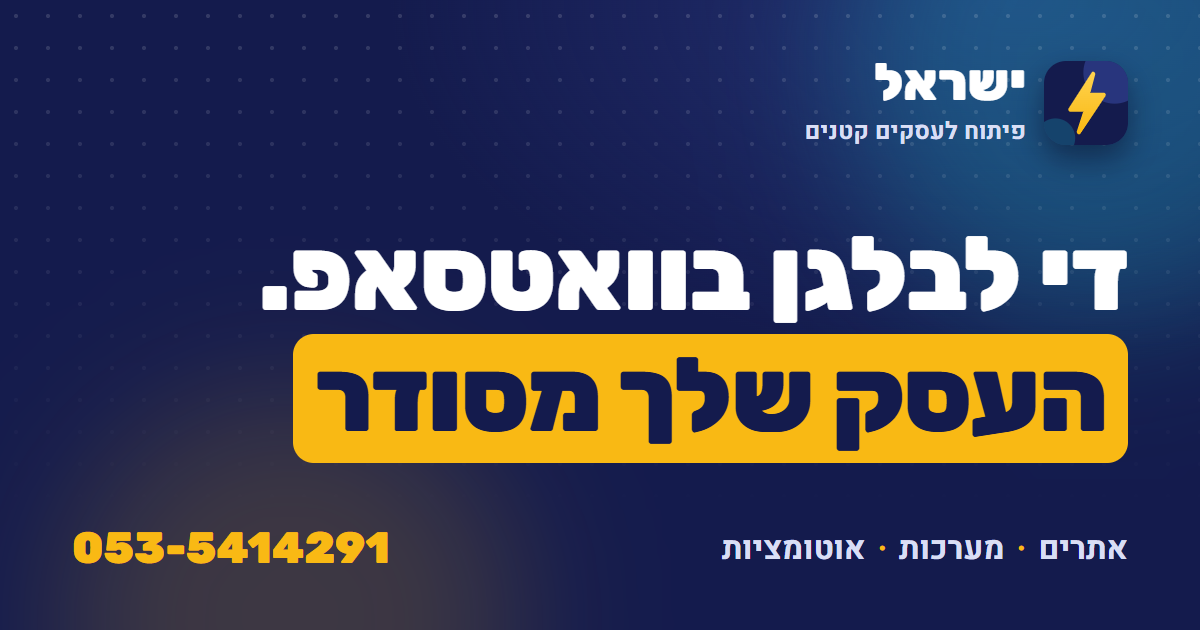
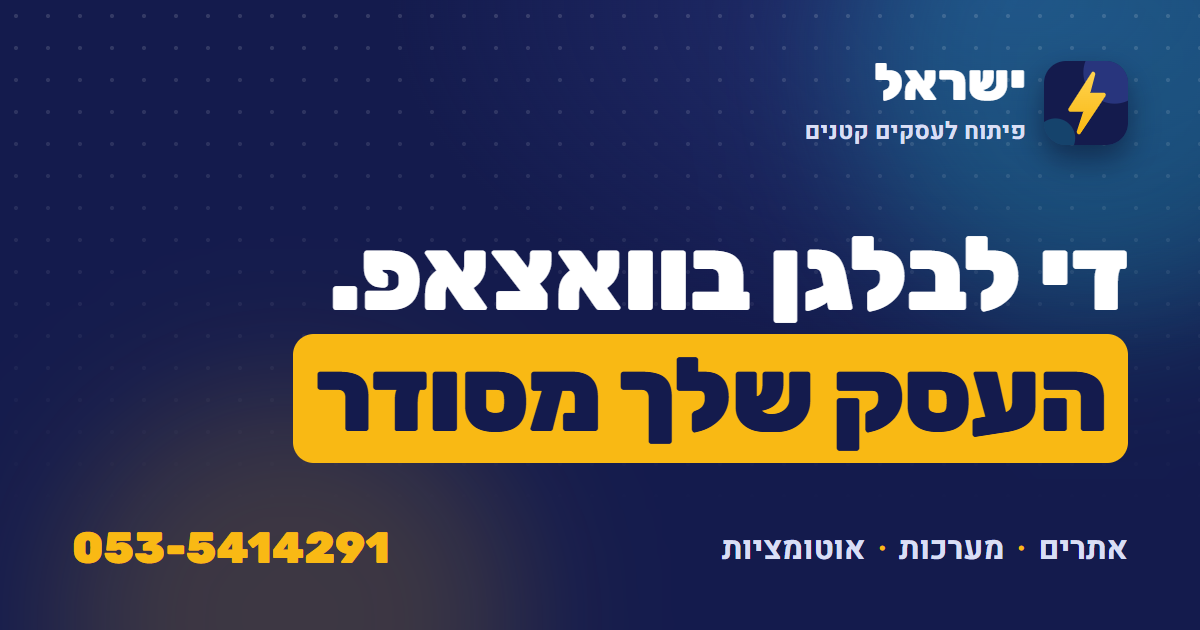
כתיבה אחידה של וואצאפ באתר ובתמונת השיתוף

Changed region(s): [[0.2158, 0.3921, 0.4625, 0.5127]]

diff --git a/index.html b/index.html
@@ -5,8 +5,8 @@
   <meta name="viewport" content="width=device-width, initial-scale=1">
   <title data-edit="seo.title" data-label="כותרת הדף בגוגל ובלשונית">ישראל – אתרים, מערכות ואוטומציות לעסקים קטנים</title>
   <meta name="description" data-edit-meta="seo.description" data-label="תיאור הדף בגוגל" data-type="long" content="בונה לעסקים קטנים אתרים ודפי נחיתה, מערכות לניהול לקוחות ואוטומציות. בעברית פשוטה ובלי מילים טכניות.">
-  <meta name="lazy:whatsapp" data-edit-meta="contact.whatsapp" data-label="מספר וואטסאפ" content="053-5414291">
-  <meta name="lazy:wa-message" data-edit-meta="contact.wa_message" data-label="ההודעה המוכנה בוואטסאפ" data-type="long" content="היי ישראל, אשמח לשמוע איך אפשר לסדר את העסק שלי">
+  <meta name="lazy:whatsapp" data-edit-meta="contact.whatsapp" data-label="מספר וואצאפ" content="053-5414291">
+  <meta name="lazy:wa-message" data-edit-meta="contact.wa_message" data-label="ההודעה המוכנה בוואצאפ" data-type="long" content="היי ישראל, אשמח לשמוע איך אפשר לסדר את העסק שלי">
   <link rel="canonical" href="https://68kaminsky-maker.github.io/israel-site/">
   <meta property="og:title" content="ישראל – אתרים, מערכות ואוטומציות לעסקים קטנים">
   <meta property="og:description" content="אתרים ודפי נחיתה, מערכות לניהול לקוחות ואוטומציות, בעברית פשוטה.">
@@ -18,7 +18,7 @@
   <meta property="og:image:type" content="image/png">
   <meta property="og:image:width" content="1200">
   <meta property="og:image:height" content="630">
-  <meta property="og:image:alt" content="ישראל: די לבלגן בוואטסאפ, העסק שלך מסודר. אתרים, מערכות ואוטומציות">
+  <meta property="og:image:alt" content="ישראל: די לבלגן בוואצאפ, העסק שלך מסודר. אתרים, מערכות ואוטומציות">
   <meta name="twitter:card" content="summary_large_image">
   <link rel="icon" href="assets/favicon.svg" type="image/svg+xml">
   <link rel="preconnect" href="https://fonts.googleapis.com">
@@ -47,7 +47,7 @@
         <a href="#faq">שאלות נפוצות</a>
       </div>
       <div class="nav__actions">
-        <a class="nav__wa" data-edit-wa href="https://wa.me/972535414291" aria-label="שלחו הודעה בוואטסאפ">
+        <a class="nav__wa" data-edit-wa href="https://wa.me/972535414291" aria-label="שלחו הודעה בוואצאפ">
           <svg viewBox="0 0 24 24" fill="none" stroke="currentColor" stroke-width="2" stroke-linecap="round" stroke-linejoin="round" aria-hidden="true"><path d="M4 12a8 8 0 1 1 3.3 6.5L4 20l1.3-3.5A7.9 7.9 0 0 1 4 12z"/></svg>
         </a>
         <a class="btn btn--yellow btn--sm" href="#contact"><span data-edit="nav.cta" data-label="כפתור בתפריט">דברו איתי</span></a>
@@ -73,13 +73,13 @@
       <div class="wrap hero__grid">
         <div class="hero__text rv">
           <span class="pill-tag"><i></i><span data-edit="hero.tag" data-label="תגית מעל הכותרת">אתרים, מערכות ואוטומציות לעסקים קטנים</span></span>
-          <h1 class="hero__title"><span data-edit="hero.title1" data-label="כותרת, שורה ראשונה">די לבלגן בוואטסאפ.</span><br><em data-edit="hero.title2" data-label="כותרת, שורה מודגשת">העסק שלך מסודר</em></h1>
+          <h1 class="hero__title"><span data-edit="hero.title1" data-label="כותרת, שורה ראשונה">די לבלגן בוואצאפ.</span><br><em data-edit="hero.title2" data-label="כותרת, שורה מודגשת">העסק שלך מסודר</em></h1>
           <p class="hero__sub" data-edit="hero.sub" data-label="משפט הסבר" data-type="long">אני ישראל. בונה לעסקים קטנים אתרים, מערכות לניהול לקוחות ואוטומציות, בעברית פשוטה ובלי מילים טכניות.</p>
           <p class="hero__hook"><span data-edit="hero.hook1" data-label="שורה מתחת להסבר, התחלה">מי מחכה לתשובה?</span> <strong data-edit="hero.hook2" data-label="שורה מתחת להסבר, מילים מודגשות">רואים את זה במבט אחד</strong></p>
           <div class="hero__actions">
             <a class="btn btn--yellow btn--lg" data-edit-wa href="https://wa.me/972535414291">
               <svg viewBox="0 0 24 24" fill="none" stroke="currentColor" stroke-width="2" stroke-linecap="round" stroke-linejoin="round" aria-hidden="true"><path d="M4 12a8 8 0 1 1 3.3 6.5L4 20l1.3-3.5A7.9 7.9 0 0 1 4 12z"/></svg>
-              <span data-edit="hero.cta" data-label="כפתור ראשי">שלחו לי הודעה בוואטסאפ</span>
+              <span data-edit="hero.cta" data-label="כפתור ראשי">שלחו לי הודעה בוואצאפ</span>
             </a>
             <a class="btn btn--ghost-dark btn--lg" href="#services"><span data-edit="hero.cta2" data-label="כפתור משני">מה אני בונה ↓</span></a>
           </div>
@@ -99,7 +99,7 @@
               <span class="chip chip--yellow">חדש</span>
             </div>
             <span class="bar bar--l"></span><span class="bar bar--s"></span>
-            <span class="gcard__foot">הגיע מוואטסאפ</span>
+            <span class="gcard__foot">הגיע מוואצאפ</span>
           </div>
           <div class="gcard gcard--b" aria-hidden="true">
             <div class="gcard__head">
@@ -130,7 +130,7 @@
       <ul class="trust rv">
         <li>
           <span class="trust__icon"><svg viewBox="0 0 24 24" fill="none" stroke="currentColor" stroke-width="1.8" stroke-linecap="round" stroke-linejoin="round" aria-hidden="true"><path d="M4 12a8 8 0 1 1 3.3 6.5L4 20l1.3-3.5A7.9 7.9 0 0 1 4 12z"/></svg></span>
-          <span><b data-edit="trust.1.title" data-label="יתרון 1, כותרת">בלי וואטסאפ מתבלגן</b><span data-edit="trust.1.text" data-label="יתרון 1, הסבר">לקוחות, פרויקטים והצעות מחיר בלוח אחד</span></span>
+          <span><b data-edit="trust.1.title" data-label="יתרון 1, כותרת">בלי וואצאפ מתבלגן</b><span data-edit="trust.1.text" data-label="יתרון 1, הסבר">לקוחות, פרויקטים והצעות מחיר בלוח אחד</span></span>
         </li>
         <li>
           <span class="trust__icon"><svg viewBox="0 0 24 24" fill="none" stroke="currentColor" stroke-width="1.8" stroke-linecap="round" stroke-linejoin="round" aria-hidden="true"><rect x="7" y="2.5" width="10" height="19" rx="2.5"/><path d="M11 18.5h2"/></svg></span>
@@ -170,7 +170,7 @@
             <span class="service__num" aria-hidden="true">01</span>
             <span class="service__icon"><svg viewBox="0 0 24 24" fill="none" stroke="currentColor" stroke-width="1.8" stroke-linecap="round" stroke-linejoin="round" aria-hidden="true"><rect x="3" y="4" width="18" height="14" rx="2.5"/><path d="M3 8.5h18M8 21h8"/></svg></span>
             <h3 data-edit="s1.name" data-label="שירות 1, שם">אתרים ודפי נחיתה</h3>
-            <p data-edit="s1.desc" data-label="שירות 1, תיאור" data-type="long">אתר שמציג את העסק שלך ומביא פניות ישר לוואטסאפ ולטלפון. אתה מחליף טקסטים ותמונות בעצמך, ורואה כל פנייה שנכנסה.</p>
+            <p data-edit="s1.desc" data-label="שירות 1, תיאור" data-type="long">אתר שמציג את העסק שלך ומביא פניות ישר לוואצאפ ולטלפון. אתה מחליף טקסטים ותמונות בעצמך, ורואה כל פנייה שנכנסה.</p>
             <a class="service__link" href="#contact" data-edit="services.link" data-label="קישור בכל כרטיס">לשאול על זה ←</a>
           </article>
           <article class="service rv">
@@ -184,7 +184,7 @@
             <span class="service__num" aria-hidden="true">03</span>
             <span class="service__icon"><svg viewBox="0 0 24 24" fill="none" stroke="currentColor" stroke-width="1.8" stroke-linecap="round" stroke-linejoin="round" aria-hidden="true"><path d="M13 3L5 13.5h6L10 21l8-10.5h-6z"/></svg></span>
             <h3 data-edit="s3.name" data-label="שירות 3, שם">אוטומציות</h3>
-            <p data-edit="s3.desc" data-label="שירות 3, תיאור" data-type="long">תזכורות, סיכומים והודעות מוכנות לוואטסאפ, כדי שהעבודה החוזרת תעבור למחשב ואתה תתפנה ללקוחות.</p>
+            <p data-edit="s3.desc" data-label="שירות 3, תיאור" data-type="long">תזכורות, סיכומים והודעות מוכנות לוואצאפ, כדי שהעבודה החוזרת תעבור למחשב ואתה תתפנה ללקוחות.</p>
             <a class="service__link" href="#contact" data-edit="services.link">לשאול על זה ←</a>
           </article>
         </div>
@@ -231,7 +231,7 @@
             <div class="work__body">
               <span class="work__kind" data-edit="works.2.kind" data-label="עבודה 2, סוג">חנות וניהול</span>
               <h3 data-edit="works.2.title" data-label="עבודה 2, שם">ניהול חנות</h3>
-              <p data-edit="works.2.text" data-label="עבודה 2, תיאור" data-type="long">קטלוג, חשבוניות ופרסומות, עם אתר חנות וסוכן וואטסאפ שעונה ללקוחות.</p>
+              <p data-edit="works.2.text" data-label="עבודה 2, תיאור" data-type="long">קטלוג, חשבוניות ופרסומות, עם אתר חנות וסוכן וואצאפ שעונה ללקוחות.</p>
               <a class="work__demo" href="demos/store/index.html" target="_blank" rel="noopener" aria-label="פתחו הדגמה של ניהול חנות, נפתח בלשונית חדשה"><span data-edit="works.demo_link" data-label="קישור להדגמה, בכל כרטיס">פתחו את ההדגמה ←</span></a>
               <a class="work__demo work__demo--video" href="#videos-store"><span data-edit="works.video_link" data-label="קישור לסרטונים, בכרטיסים">צפו בסרטונים ↓</span></a>
             </div>
@@ -335,7 +335,7 @@
               <span class="vid__dur" aria-hidden="true">50 שניות</span>
             </a>
             <h4 data-edit="videos.1.title" data-label="סרטון 1, שם">מכרת בקבוקים? פשוט תכתוב</h4>
-            <p data-edit="videos.1.text" data-label="סרטון 1, תיאור" data-type="long">כותבים לסוכן בוואטסאפ, המלאי יורד לבד ותעודת המשלוח נשלחת ללקוח.</p>
+            <p data-edit="videos.1.text" data-label="סרטון 1, תיאור" data-type="long">כותבים לסוכן בוואצאפ, המלאי יורד לבד ותעודת המשלוח נשלחת ללקוח.</p>
           </article>
           <article class="vid rv">
             <a class="vid__poster" href="videos/wine-2.mp4" data-video="videos/wine-2.mp4" aria-label="הפעלת הסרטון: לפני ואחרי, 48 שניות">
@@ -365,7 +365,7 @@
               <span class="vid__dur" aria-hidden="true">38 שניות</span>
             </a>
             <h4 data-edit="videos.4.title" data-label="סרטון 4, שם">שש בבוקר</h4>
-            <p data-edit="videos.4.text" data-label="סרטון 4, תיאור" data-type="long">23 הודעות בוואטסאפ, לחיצה אחת, והסוכן מסכם מי רוצה מה ומתי.</p>
+            <p data-edit="videos.4.text" data-label="סרטון 4, תיאור" data-type="long">23 הודעות בוואצאפ, לחיצה אחת, והסוכן מסכם מי רוצה מה ומתי.</p>
           </article>
           <article class="vid rv">
             <a class="vid__poster" href="videos/kitchen-2.mp4" data-video="videos/kitchen-2.mp4" aria-label="הפעלת הסרטון: הודעה אחת, אירוע אחד, 37 שניות">
@@ -374,7 +374,7 @@
               <span class="vid__dur" aria-hidden="true">37 שניות</span>
             </a>
             <h4 data-edit="videos.5.title" data-label="סרטון 5, שם">הודעה אחת, אירוע אחד</h4>
-            <p data-edit="videos.5.text" data-label="סרטון 5, תיאור" data-type="long">הלקוח כותב בוואטסאפ, הסוכן מזהה את הפרטים, אתה מאשר, והאירוע נכנס ללוח.</p>
+            <p data-edit="videos.5.text" data-label="סרטון 5, תיאור" data-type="long">הלקוח כותב בוואצאפ, הסוכן מזהה את הפרטים, אתה מאשר, והאירוע נכנס ללוח.</p>
           </article>
           <article class="vid rv">
             <a class="vid__poster" href="videos/kitchen-3.mp4" data-video="videos/kitchen-3.mp4" aria-label="הפעלת הסרטון: פרויקט של חמש ארוחות, 26 שניות">
@@ -401,7 +401,7 @@
               <span class="vid__dur" aria-hidden="true">32 שניות</span>
             </a>
             <h4 data-edit="videos.8.title" data-label="סרטון 8, שם">כל החיבורים, מקום אחד</h4>
-            <p data-edit="videos.8.text" data-label="סרטון 8, תיאור" data-type="long">וואטסאפ, יומן, מלאי, מייל וחשבוניות מתחברים, ושואלים: מה יש לי היום?</p>
+            <p data-edit="videos.8.text" data-label="סרטון 8, תיאור" data-type="long">וואצאפ, יומן, מלאי, מייל וחשבוניות מתחברים, ושואלים: מה יש לי היום?</p>
           </article>
         </div>
       </div>
@@ -415,7 +415,7 @@
           <h2 class="title"><span data-edit="process.title1" data-label="כותרת, התחלה">שלושה צעדים</span> <em data-edit="process.title2" data-label="כותרת, מילים מודגשות">עד שזה עובד</em></h2>
         </div>
 
-        <!-- האיור: הודעה בוואטסאפ שנוסעת על קו מקווקו ונוחתת ככרטיס ליד חדש -->
+        <!-- האיור: הודעה בוואצאפ שנוסעת על קו מקווקו ונוחתת ככרטיס ליד חדש -->
         <div class="road" aria-hidden="true">
           <svg class="bubble" viewBox="0 0 64 52"><path class="bubble__b" d="M10 4h44a8 8 0 0 1 8 8v20a8 8 0 0 1-8 8H30L16 49V40h-6a8 8 0 0 1-8-8V12a8 8 0 0 1 8-8z"/><path class="bubble__l" d="M14 16h30M14 25h20"/></svg>
           <span class="road__lead"><i></i>ליד חדש<svg viewBox="0 0 24 24" fill="none" stroke="currentColor" stroke-width="3" stroke-linecap="round" stroke-linejoin="round"><path d="M5 12.5l4.5 4.5L19 7.5"/></svg></span>
@@ -425,7 +425,7 @@
           <li class="step rv">
             <span class="step__num">01</span>
             <h3 data-edit="step.1.title" data-label="צעד 1, כותרת">שולחים הודעה או מתקשרים</h3>
-            <p data-edit="step.1.text" data-label="צעד 1, הסבר" data-type="long">מספרים בכמה מילים מה העסק עושה ומה מבלבל אתכם היום. וואטסאפ מספיק.</p>
+            <p data-edit="step.1.text" data-label="צעד 1, הסבר" data-type="long">מספרים בכמה מילים מה העסק עושה ומה מבלבל אתכם היום. וואצאפ מספיק.</p>
           </li>
           <li class="step rv">
             <span class="step__num">02</span>
@@ -497,10 +497,10 @@
       <div class="wrap cta__grid">
         <div class="rv">
           <h2 class="cta__title"><span data-edit="cta.title1" data-label="כותרת, שורה 1">יש לך עסק.</span><br><em data-edit="cta.title2" data-label="כותרת, שורה מודגשת">בוא נסדר אותו</em></h2>
-          <p class="cta__sub" data-edit="cta.sub" data-label="משפט מתחת לכותרת">שלחו הודעה בוואטסאפ, התקשרו או השאירו פרטים, ואחזור אליכם.</p>
+          <p class="cta__sub" data-edit="cta.sub" data-label="משפט מתחת לכותרת">שלחו הודעה בוואצאפ, התקשרו או השאירו פרטים, ואחזור אליכם.</p>
           <div class="cta__actions">
             <a class="btn btn--ink btn--xl" data-edit-tel href="tel:+972535414291"><span data-edit="contact.phone">053-5414291</span></a>
-            <a class="btn btn--outline-ink btn--lg" data-edit-wa href="https://wa.me/972535414291"><span data-edit="cta.wa" data-label="כפתור וואטסאפ">שלחו הודעה בוואטסאפ</span></a>
+            <a class="btn btn--outline-ink btn--lg" data-edit-wa href="https://wa.me/972535414291"><span data-edit="cta.wa" data-label="כפתור וואצאפ">שלחו הודעה בוואצאפ</span></a>
           </div>
           <p class="cta__mail">
             <svg viewBox="0 0 24 24" fill="none" stroke="currentColor" stroke-width="1.8" stroke-linecap="round" stroke-linejoin="round" aria-hidden="true"><rect x="3" y="5" width="18" height="14" rx="2.5"/><path d="M3.5 6.5l8.5 6.5 8.5-6.5"/></svg>
@@ -555,8 +555,8 @@
     <div class="wrap footer__bottom"><span>© 2026 <span data-edit="brand.name">ישראל</span></span><a class="footer__admin" href="admin/">כניסת מנהל</a></div>
   </footer>
 
-  <!-- וואטסאפ צף -->
-  <a class="wa-float" data-edit-wa href="https://wa.me/972535414291" aria-label="שלחו הודעה בוואטסאפ">
+  <!-- וואצאפ צף -->
+  <a class="wa-float" data-edit-wa href="https://wa.me/972535414291" aria-label="שלחו הודעה בוואצאפ">
     <svg viewBox="0 0 24 24" fill="none" stroke="currentColor" stroke-width="2" stroke-linecap="round" stroke-linejoin="round" aria-hidden="true"><path d="M4 12a8 8 0 1 1 3.3 6.5L4 20l1.3-3.5A7.9 7.9 0 0 1 4 12z"/></svg>
   </a>
 

diff --git a/demos/clients/blueprint.js b/demos/clients/blueprint.js
@@ -1,8 +1,8 @@
-// מבנה המערכת. הפורמט המלא: library/blueprint-format.md
+// מבנה המערכת. הפורמט המלא: library/blueprint-format.md
 window.BLUEPRINT = {
   id: 'demo-clients',
   name: 'ניהול לקוחות · הדגמה',
-  purpose: 'כל הלקוחות, הפרויקטים והצעות המחיר במקום אחד, במקום וואטסאפ מתבלגן. רואים מי מחכה לתשובה, וחוזרים לכל אחד בזמן.',
+  purpose: 'כל הלקוחות, הפרויקטים והצעות המחיר במקום אחד, במקום וואצאפ מתבלגן. רואים מי מחכה לתשובה, וחוזרים לכל אחד בזמן.',
   owner: 'ישראל',
   style: 'bold-dark',
   styleOptions: ['bold-dark', 'clean-pro', 'soft-air'],
@@ -23,7 +23,7 @@ window.BLUEPRINT = {
         { id: 'phone', label: 'טלפון', type: 'phone', required: true },
         { id: 'email', label: 'מייל', type: 'email' },
         { id: 'business', label: 'שם העסק', type: 'text' },
-        { id: 'source', label: 'הגיע מ', type: 'select', options: ['וואטסאפ', 'המלצה', 'אתר', 'פייסבוק', 'לינקדאין'] },
+        { id: 'source', label: 'הגיע מ', type: 'select', options: ['וואצאפ', 'המלצה', 'אתר', 'פייסבוק', 'לינקדאין'] },
         { id: 'status', label: 'סטטוס', type: 'status', options: [
           { v: 'חדש', color: 'red' },
           { v: 'בשיחה', color: 'yellow' },
@@ -79,7 +79,7 @@ window.BLUEPRINT = {
       fields: [
         { id: 'customer', label: 'לקוח', type: 'relation', table: 'customers', required: true },
         { id: 'when', label: 'מתי', type: 'datetime' },
-        { id: 'channel', label: 'איפה דיברנו', type: 'select', options: ['טלפון', 'וואטסאפ', 'פגישה', 'מייל'] },
+        { id: 'channel', label: 'איפה דיברנו', type: 'select', options: ['טלפון', 'וואצאפ', 'פגישה', 'מייל'] },
         { id: 'summary', label: 'סיכום קצר', type: 'text', required: true },
         { id: 'next', label: 'מה צריך לעשות אחר כך', type: 'longtext' }
       ]
@@ -100,7 +100,7 @@ window.BLUEPRINT = {
   automations: [
     { label: 'ייצוא כל טבלה לאקסל בלחיצה', status: 'פעיל' },
     { label: 'תזכורת בדשבורד: מי צריך שיחה חוזרת היום', status: 'פעיל' },
-    { label: 'הודעת וואטסאפ מוכנה ללקוח שמחכה להצעה', status: 'בהמשך' },
+    { label: 'הודעת וואצאפ מוכנה ללקוח שמחכה להצעה', status: 'בהמשך' },
     { label: 'סיכום שבועי: כמה לידים נכנסו וכמה נסגרו', status: 'בהמשך' }
   ],
 
@@ -109,13 +109,13 @@ window.BLUEPRINT = {
   samples: {
     customers: [
       { id: 'c1', name: 'דנה אברמוב', phone: '050-1234567', email: 'dana@example.com', business: 'קליניקת פיזיותרפיה', source: 'המלצה', status: 'חדש', follow: 'today' },
-      { id: 'c2', name: 'יוסי כהן', phone: '052-7654321', business: 'מוסך כהן', source: 'וואטסאפ', status: 'בשיחה', follow: '+1d' },
+      { id: 'c2', name: 'יוסי כהן', phone: '052-7654321', business: 'מוסך כהן', source: 'וואצאפ', status: 'בשיחה', follow: '+1d' },
       { id: 'c3', name: 'מיכל לוי', phone: '054-1112233', business: 'סטודיו לעיצוב פנים', source: 'אתר', status: 'הצעת מחיר', follow: '+2d' },
       { id: 'c4', name: 'אבי מזרחי', phone: '053-4445566', business: 'חברת הובלות', source: 'פייסבוק', status: 'הצעת מחיר', follow: '+4d' },
       { id: 'c5', name: 'שירה גולן', phone: '058-9998877', business: 'מאפיית השכונה', source: 'לינקדאין', status: 'נסגר' },
       { id: 'c6', name: 'משה ביטון', phone: '050-3332211', business: 'משרד רואי חשבון', source: 'המלצה', status: 'נסגר' },
       { id: 'c7', name: 'נועה פרץ', phone: '052-6667788', business: 'חנות בגדים', source: 'אתר', status: 'חדש', follow: 'today' },
-      { id: 'c8', name: 'אלון שמעוני', phone: '054-2223344', business: 'מכון כושר', source: 'וואטסאפ', status: 'לא רלוונטי' }
+      { id: 'c8', name: 'אלון שמעוני', phone: '054-2223344', business: 'מכון כושר', source: 'וואצאפ', status: 'לא רלוונטי' }
     ],
     projects: [
       { id: 'p1', customer: 'c5', name: 'אתר תדמית למאפייה', kind: 'אתר', status: 'שולם', due: '-5d', price: 4500 },
@@ -134,11 +134,11 @@ window.BLUEPRINT = {
     ],
     calls: [
       { id: 'k1', customer: 'c1', when: 'today 09:30', channel: 'טלפון', summary: 'התקשרה, רוצה דף נחיתה לקליניקה', next: 'לשלוח הצעת מחיר עד מחר' },
-      { id: 'k2', customer: 'c2', when: '-1d 17:00', channel: 'וואטסאפ', summary: 'שלח צילומי מסך של המערכת הנוכחית', next: 'לבדוק ולחזור אליו' },
+      { id: 'k2', customer: 'c2', when: '-1d 17:00', channel: 'וואצאפ', summary: 'שלח צילומי מסך של המערכת הנוכחית', next: 'לבדוק ולחזור אליו' },
       { id: 'k3', customer: 'c3', when: '-2d 11:00', channel: 'פגישה', summary: 'פגישת היכרות, אהבה את הסגנון הכהה', next: 'מחכה לתשובה להצעה' },
       { id: 'k4', customer: 'c4', when: '-4d 14:15', channel: 'מייל', summary: 'ביקש מחיר למערכת הזמנות', next: 'לחזור אליו אם לא יענה' },
       { id: 'k5', customer: 'c6', when: '-3d 10:00', channel: 'טלפון', summary: 'עדכון התקדמות על המערכת', next: 'לשלוח לו גרסה לבדיקה' },
-      { id: 'k6', customer: 'c7', when: 'today 12:00', channel: 'וואטסאפ', summary: 'פנתה דרך האתר, רוצה חנות אונליין', next: 'לקבוע שיחה' }
+      { id: 'k6', customer: 'c7', when: 'today 12:00', channel: 'וואצאפ', summary: 'פנתה דרך האתר, רוצה חנות אונליין', next: 'לקבוע שיחה' }
     ]
   }
 };

diff --git a/admin/admin.js b/admin/admin.js
@@ -305,7 +305,7 @@
               ${l.message ? `<p class="adm-lead__msg">${esc(l.message)}</p>` : ''}
               <div class="adm-lead__foot">
                 <a class="adm-btn adm-btn--blue adm-btn--sm" href="tel:+${S.intl(l.phone)}" dir="ltr">${esc(l.phone)}</a>
-                <a class="adm-btn adm-btn--wa adm-btn--sm" href="https://wa.me/${S.intl(l.phone)}" target="_blank" rel="noopener">וואטסאפ</a>
+                <a class="adm-btn adm-btn--wa adm-btn--sm" href="https://wa.me/${S.intl(l.phone)}" target="_blank" rel="noopener">וואצאפ</a>
                 <select class="adm-select" data-status="${esc(l.id)}" aria-label="סטטוס">
                   ${STATUSES.map(s => `<option ${s === l.status ? 'selected' : ''}>${s}</option>`).join('')}
                 </select>
@@ -453,7 +453,7 @@
     const seo = pick(['seo.title', 'seo.description']);
     const colors = [['theme.ink', 'צבע כהה (רקעים וכותרות)'], ['theme.blue', 'צבע משני'], ['theme.yellow', 'צבע הדגשה (כפתורים)'], ['theme.teal', 'צבע הדגשה משני']];
     main.innerHTML = `
-      <div class="adm-head"><div><h2>פרטי קשר וצבעים</h2><p>הטלפון והוואטסאפ מתעדכנים בכל הכפתורים באתר.</p></div></div>
+      <div class="adm-head"><div><h2>פרטי קשר וצבעים</h2><p>הטלפון והוואצאפ מתעדכנים בכל הכפתורים באתר.</p></div></div>
       <section class="adm-card adm-group adm-group--flat"><h3>פרטי העסק</h3>${contact.map(fieldHtml).join('')}</section>
       <section class="adm-card adm-group adm-group--flat"><h3>גוגל ושיתוף</h3>${seo.map(fieldHtml).join('')}</section>
       <section class="adm-card adm-group adm-group--flat"><h3>צבעים</h3>

diff --git a/content.js b/content.js
@@ -79,7 +79,7 @@
         if (logo && el.classList.contains('logo__img')) logo.classList.toggle('logo--has-img', Boolean(v));
       });
     }
-    // קישורי טלפון ווואטסאפ נבנים מהמספרים שבתוכן
+    // קישורי טלפון ווואצאפ נבנים מהמספרים שבתוכן
     const phone = current('contact.phone');
     const wa = current('contact.whatsapp') || phone;
     const msg = current('contact.wa_message');
@@ -153,7 +153,7 @@
         form.querySelector('.lead__done').hidden = false;
       } catch {
         button.disabled = false;
-        say('משהו השתבש. אפשר להתקשר או לשלוח וואטסאפ, ונחזור אליכם.', true);
+        say('משהו השתבש. אפשר להתקשר או לשלוח וואצאפ, ונחזור אליכם.', true);
       }
     });
   }
@@ -164,7 +164,7 @@
     try { Object.assign(state, await loadContent()); } catch { /* נשארים עם התוכן המקורי */ }
     apply(state);
     setupForm();
-    // באתר חי שעוד לא מחובר לענן, פנייה לא תגיע לבעל האתר. לכן מסתירים את הטופס עד החיבור, ונשארים עם וואטסאפ, טלפון ומייל.
+    // באתר חי שעוד לא מחובר לענן, פנייה לא תגיע לבעל האתר. לכן מסתירים את הטופס עד החיבור, ונשארים עם וואצאפ, טלפון ומייל.
     const host = location.hostname;
     const local = !host || host === 'localhost' || host === '127.0.0.1';
     if (!LIVE && !local) document.documentElement.classList.add('no-form');

diff --git a/demos/engine/app.js b/demos/engine/app.js
@@ -353,7 +353,7 @@
     const phone = phones[0] ? r[phones[0].id] : relPhones[0];
     const email = t.fields.find(f => f.type === 'email' && r[f.id]);
     const actions = [];
-    if (phone) { actions.push(`<a class="action" href="tel:+${intl(phone)}">${icon('phone')}חיוג</a>`); actions.push(`<a class="action action--wa" href="https://wa.me/${intl(phone)}" target="_blank" rel="noopener">${icon('chat')}וואטסאפ</a>`); }
+    if (phone) { actions.push(`<a class="action" href="tel:+${intl(phone)}">${icon('phone')}חיוג</a>`); actions.push(`<a class="action action--wa" href="https://wa.me/${intl(phone)}" target="_blank" rel="noopener">${icon('chat')}וואצאפ</a>`); }
     if (email) actions.push(`<a class="action" href="mailto:${esc(r[email.id])}">${icon('mail')}מייל</a>`);
     actions.push(`<a class="action" href="#/t/${t.id}/${esc(r.id)}/edit">${icon('edit')}עריכה</a>`);
     const shown = t.fields.filter(f => f.id !== t.title && f.id !== (sf && sf.id) && r[f.id] !== '' && r[f.id] != null);

diff --git a/style.css b/style.css
@@ -454,7 +454,7 @@ ul, ol { list-style: none; margin: 0; padding: 0; }
 .footer__admin { display: inline-flex; align-items: center; min-height: 44px; margin-block: -12px; opacity: .6; }
 .footer__admin:hover { opacity: 1; }
 
-/* ---------- וואטסאפ צף ---------- */
+/* ---------- וואצאפ צף ---------- */
 .wa-float { position: fixed; left: 18px; bottom: 18px; z-index: 60; display: grid; place-items: center; width: 60px; height: 60px; border-radius: 50%; color: #fff; background: var(--wa); box-shadow: 0 10px 26px rgb(37 211 102 / .45); }
 .wa-float svg { width: 28px; height: 28px; }
 .wa-float::before { content: ""; position: absolute; inset: 0; border-radius: 50%; background: var(--wa); opacity: .45; animation: pulse 2.4s ease-out infinite; z-index: -1; }
